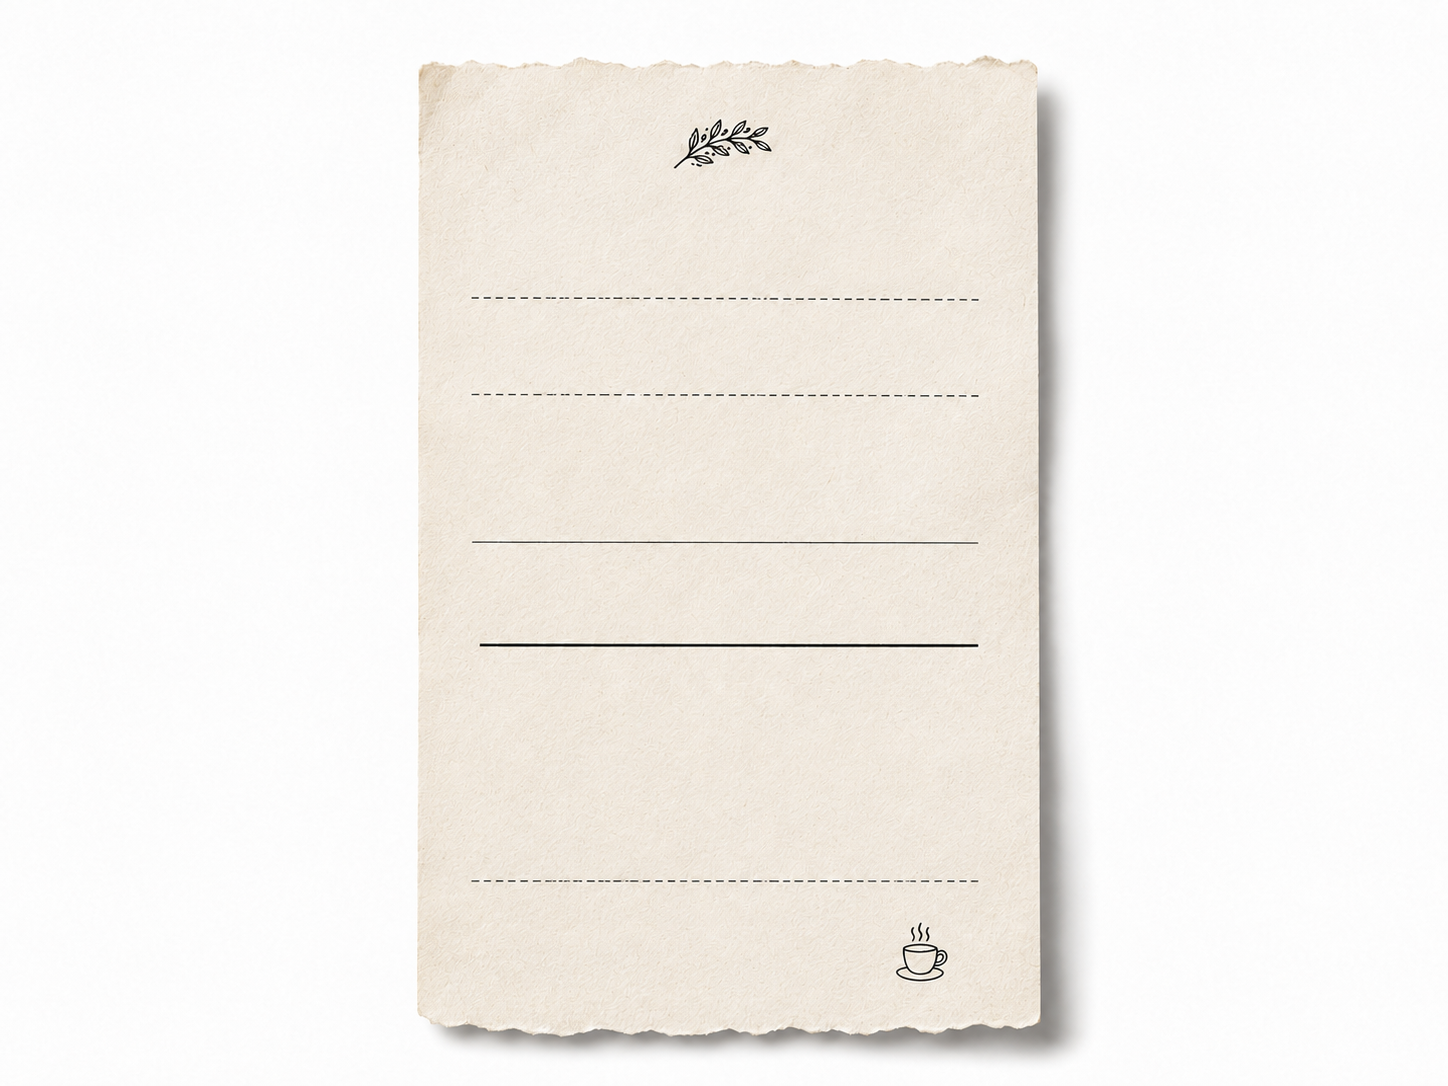
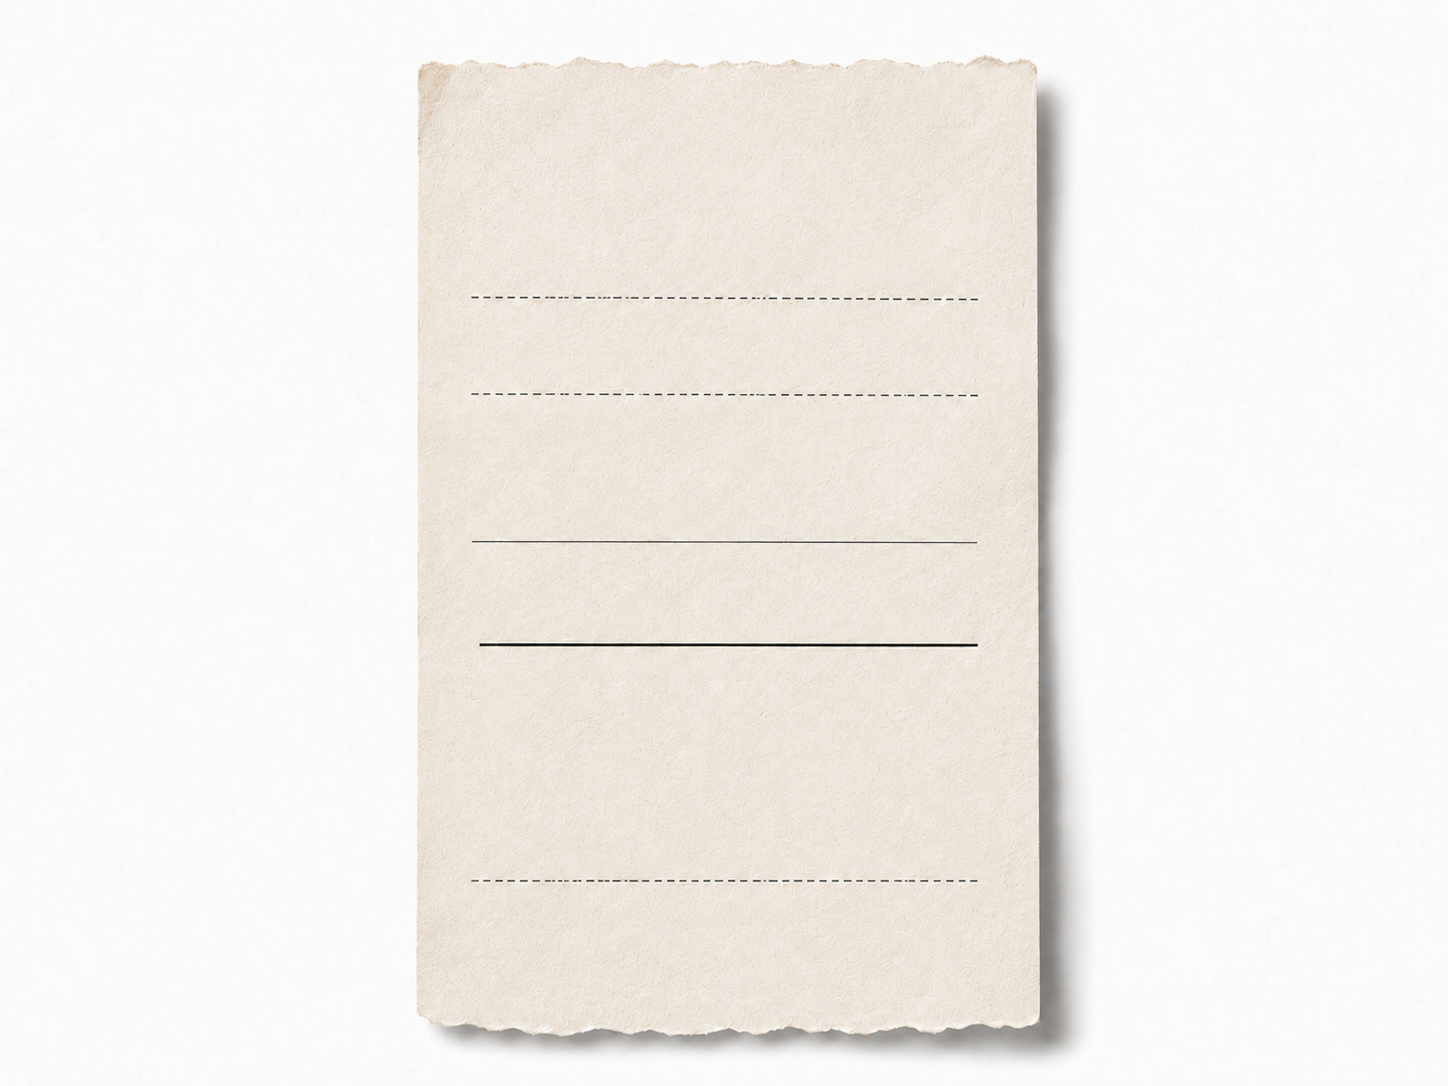
feat: update save-image route and create page

diff --git a/src/app/api/ephemera/save-image/route.ts b/src/app/api/ephemera/save-image/route.ts
@@ -24,6 +24,18 @@ function sanitizeFileName(value: string) {
   return sanitized || "ephemera";
 }
 
+function sanitizeStorageFileName(value: string) {
+  const sanitized = value
+    .trim()
+    .normalize("NFKD")
+    .replace(/[\u0300-\u036f]/g, "")
+    .replace(/[^a-zA-Z0-9._-]+/g, "-")
+    .replace(/^-+|-+$/g, "")
+    .slice(0, 64);
+
+  return sanitized || "ephemera";
+}
+
 function encodeUtf16BeHex(value: string) {
   const bytes: number[] = [];
 
@@ -202,10 +214,11 @@ export async function POST(request: Request) {
   }
 
   const saveFormat: SaveFormat = format === "pdf" ? "pdf" : "png";
-  const safeName = sanitizeFileName(typeof name === "string" ? name : "");
+  const title = sanitizeFileName(typeof name === "string" ? name : "");
+  const storageName = sanitizeStorageFileName(title);
   const timestamp = new Date().toISOString().replace(/[:.]/g, "-");
   const extension = saveFormat === "pdf" ? "pdf" : "png";
-  const fileName = `${safeName}-${timestamp}.${extension}`;
+  const fileName = `${storageName}-${timestamp}.${extension}`;
   const storagePath = `${userData.user.id}/${fileName}`;
   const bytes = Buffer.from(await file.arrayBuffer());
   const parsedTextLayers =
@@ -239,7 +252,7 @@ export async function POST(request: Request) {
     .insert({
       owner_profile_id: userData.user.id,
       creator_profile_id: userData.user.id,
-      title: safeName,
+      title,
       file_type: saveFormat === "pdf" ? "pdf" : "image",
       file_url: publicUrl,
       expires_at: expiresAt.toISOString(),

diff --git a/src/app/ephemera/create/page.tsx b/src/app/ephemera/create/page.tsx
@@ -1,6 +1,7 @@
 "use client";
 
 import Link from "next/link";
+import { useRouter } from "next/navigation";
 import Moveable from "react-moveable";
 import { useEffect, useMemo, useRef, useState } from "react";
 import { getSupabaseClient } from "@/lib/supabase/client";
@@ -401,22 +402,23 @@ function sanitizeFileName(value: string) {
 }
 
 export default function ScrapbookPage() {
+  const router = useRouter();
   const [selectedBaseId, setSelectedBaseId] = useState<BaseId>("receipt");
   const [layers, setLayers] = useState<EphemeraLayer[]>([
     {
       id: "text-1",
       type: "text",
-      text: "今日だけの記録",
+      text: "テキスト",
       color: "#2b241f",
-      fontSize: 24,
+      fontSize: 20,
       fontFamily: "serif",
       fontWeight: "700",
       fontStyle: "normal",
       textAlign: "center",
       x: 72,
       y: 64,
-      width: 260,
-      height: 56,
+      width: 220,
+      height: 48,
       rotation: 0,
       zIndex: 1,
     },
@@ -1129,6 +1131,7 @@ export default function ScrapbookPage() {
       setSavedEphemeraName(trimmedName);
       setSavedEphemeraUrl(result.url ?? null);
       setIsSaveDialogOpen(false);
+      router.push("/ephemera");
     } catch (error) {
       setExportError(
         error instanceof Error
